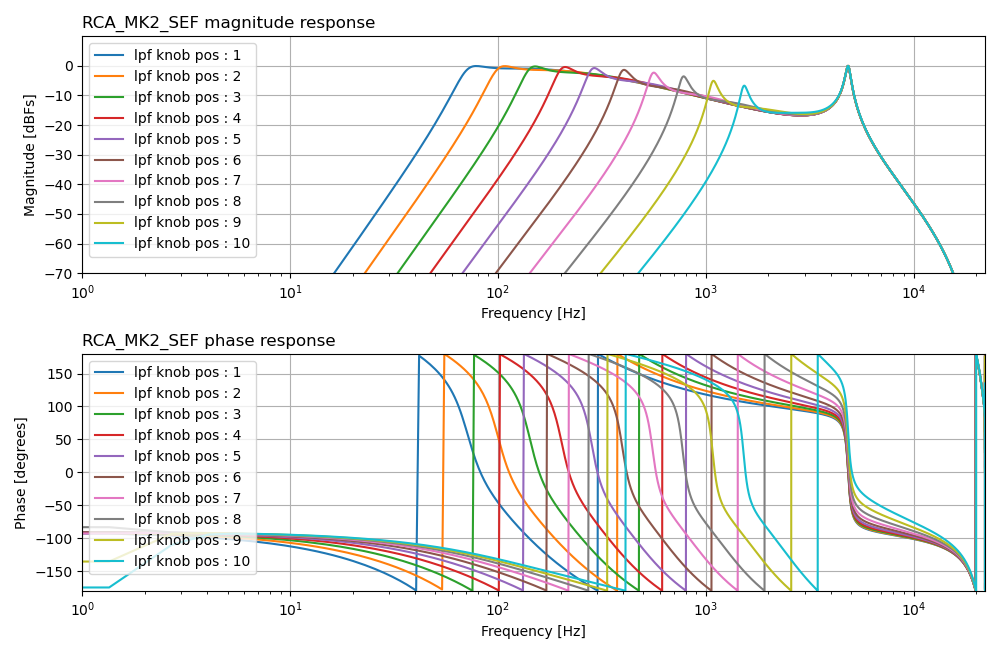
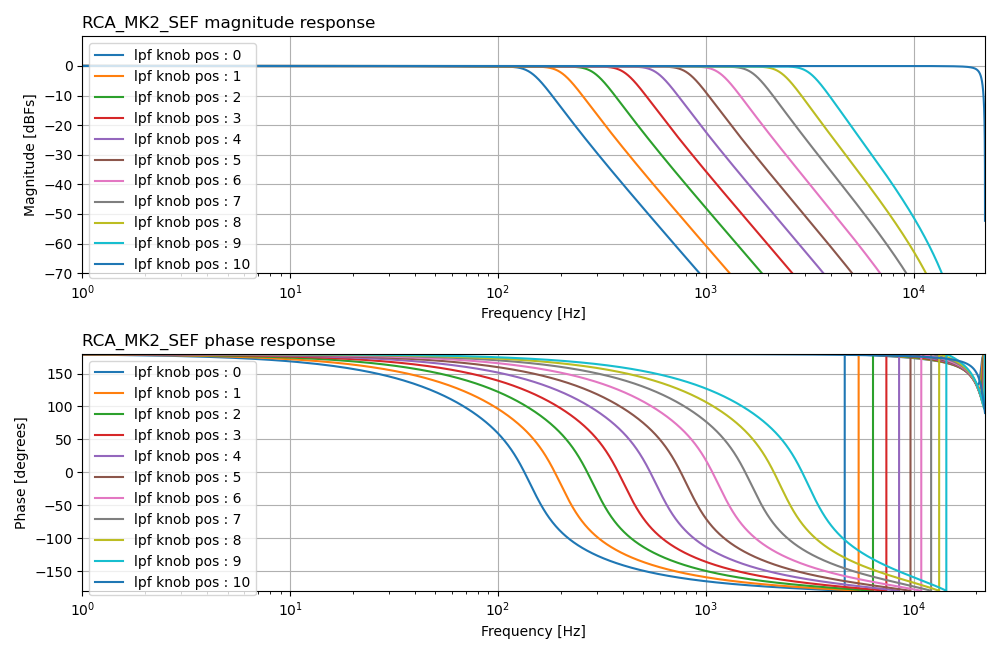
add fns for highpass & lowpass knob pos for rca mk2 sef

diff --git a/pywdf/examples/rca_mk2_sef.py b/pywdf/examples/rca_mk2_sef.py
@@ -233,6 +233,25 @@ class RCA_MK2_SEF(Circuit):
         for stage in self.LP_stages:
             stage.set_components(self.C_LP, self.L_LP, self.lowpass_mod, self.k)
 
+    def set_lowpass_knob_position(self, pos):
+        assert pos >= 0 and pos < len(self.LP_vals)
+
+        self.lowpass_cutoff, vals = list(self.LP_vals.items())[pos]
+        self.C_LP = vals['C']
+        self.L_LP = vals['L']
+
+        for stage in self.LP_stages:
+            stage.set_components(self.C_LP, self.L_LP, self.lowpass_mod, self.k)
+
+    def set_highpass_knob_position(self,pos):
+        assert pos >= 0 and pos < len(self.HP_vals)
+
+        self.highpass_cutoff, vals = list(self.HP_vals.items())[pos]        
+        self.C_HP = vals['C']
+        self.L_HP = vals['L']
+
+        for stage in self.HP_stages:
+            stage.set_components(self.C_HP, self.L_HP, self.highpass_mod, self.k)
 
     def process_sample(self, sample: float) -> float:
         gain_db = 6 # factor to compensate for gain loss

diff --git a/test.py b/test.py
@@ -2,7 +2,7 @@ from pywdf import RCA_MK2_SEF, TR_808_HatResonator, DiodeClipper
 
 # sweep positions of RCA mk2 SEF low pass filter knob and plot frequency responses
 mk2_sef = RCA_MK2_SEF(44100, 0, 3000)
-positions = range(1,11)
+positions = range(0,11)
 mk2_sef.plot_freqz_list(positions, mk2_sef.set_lowpass_knob_position, param_label = 'lpf knob pos', outpath='pywdf/figures/mk2_sef_lpf_knob.png')
 
 # visualize impulse response of TR-808 hat resonator
